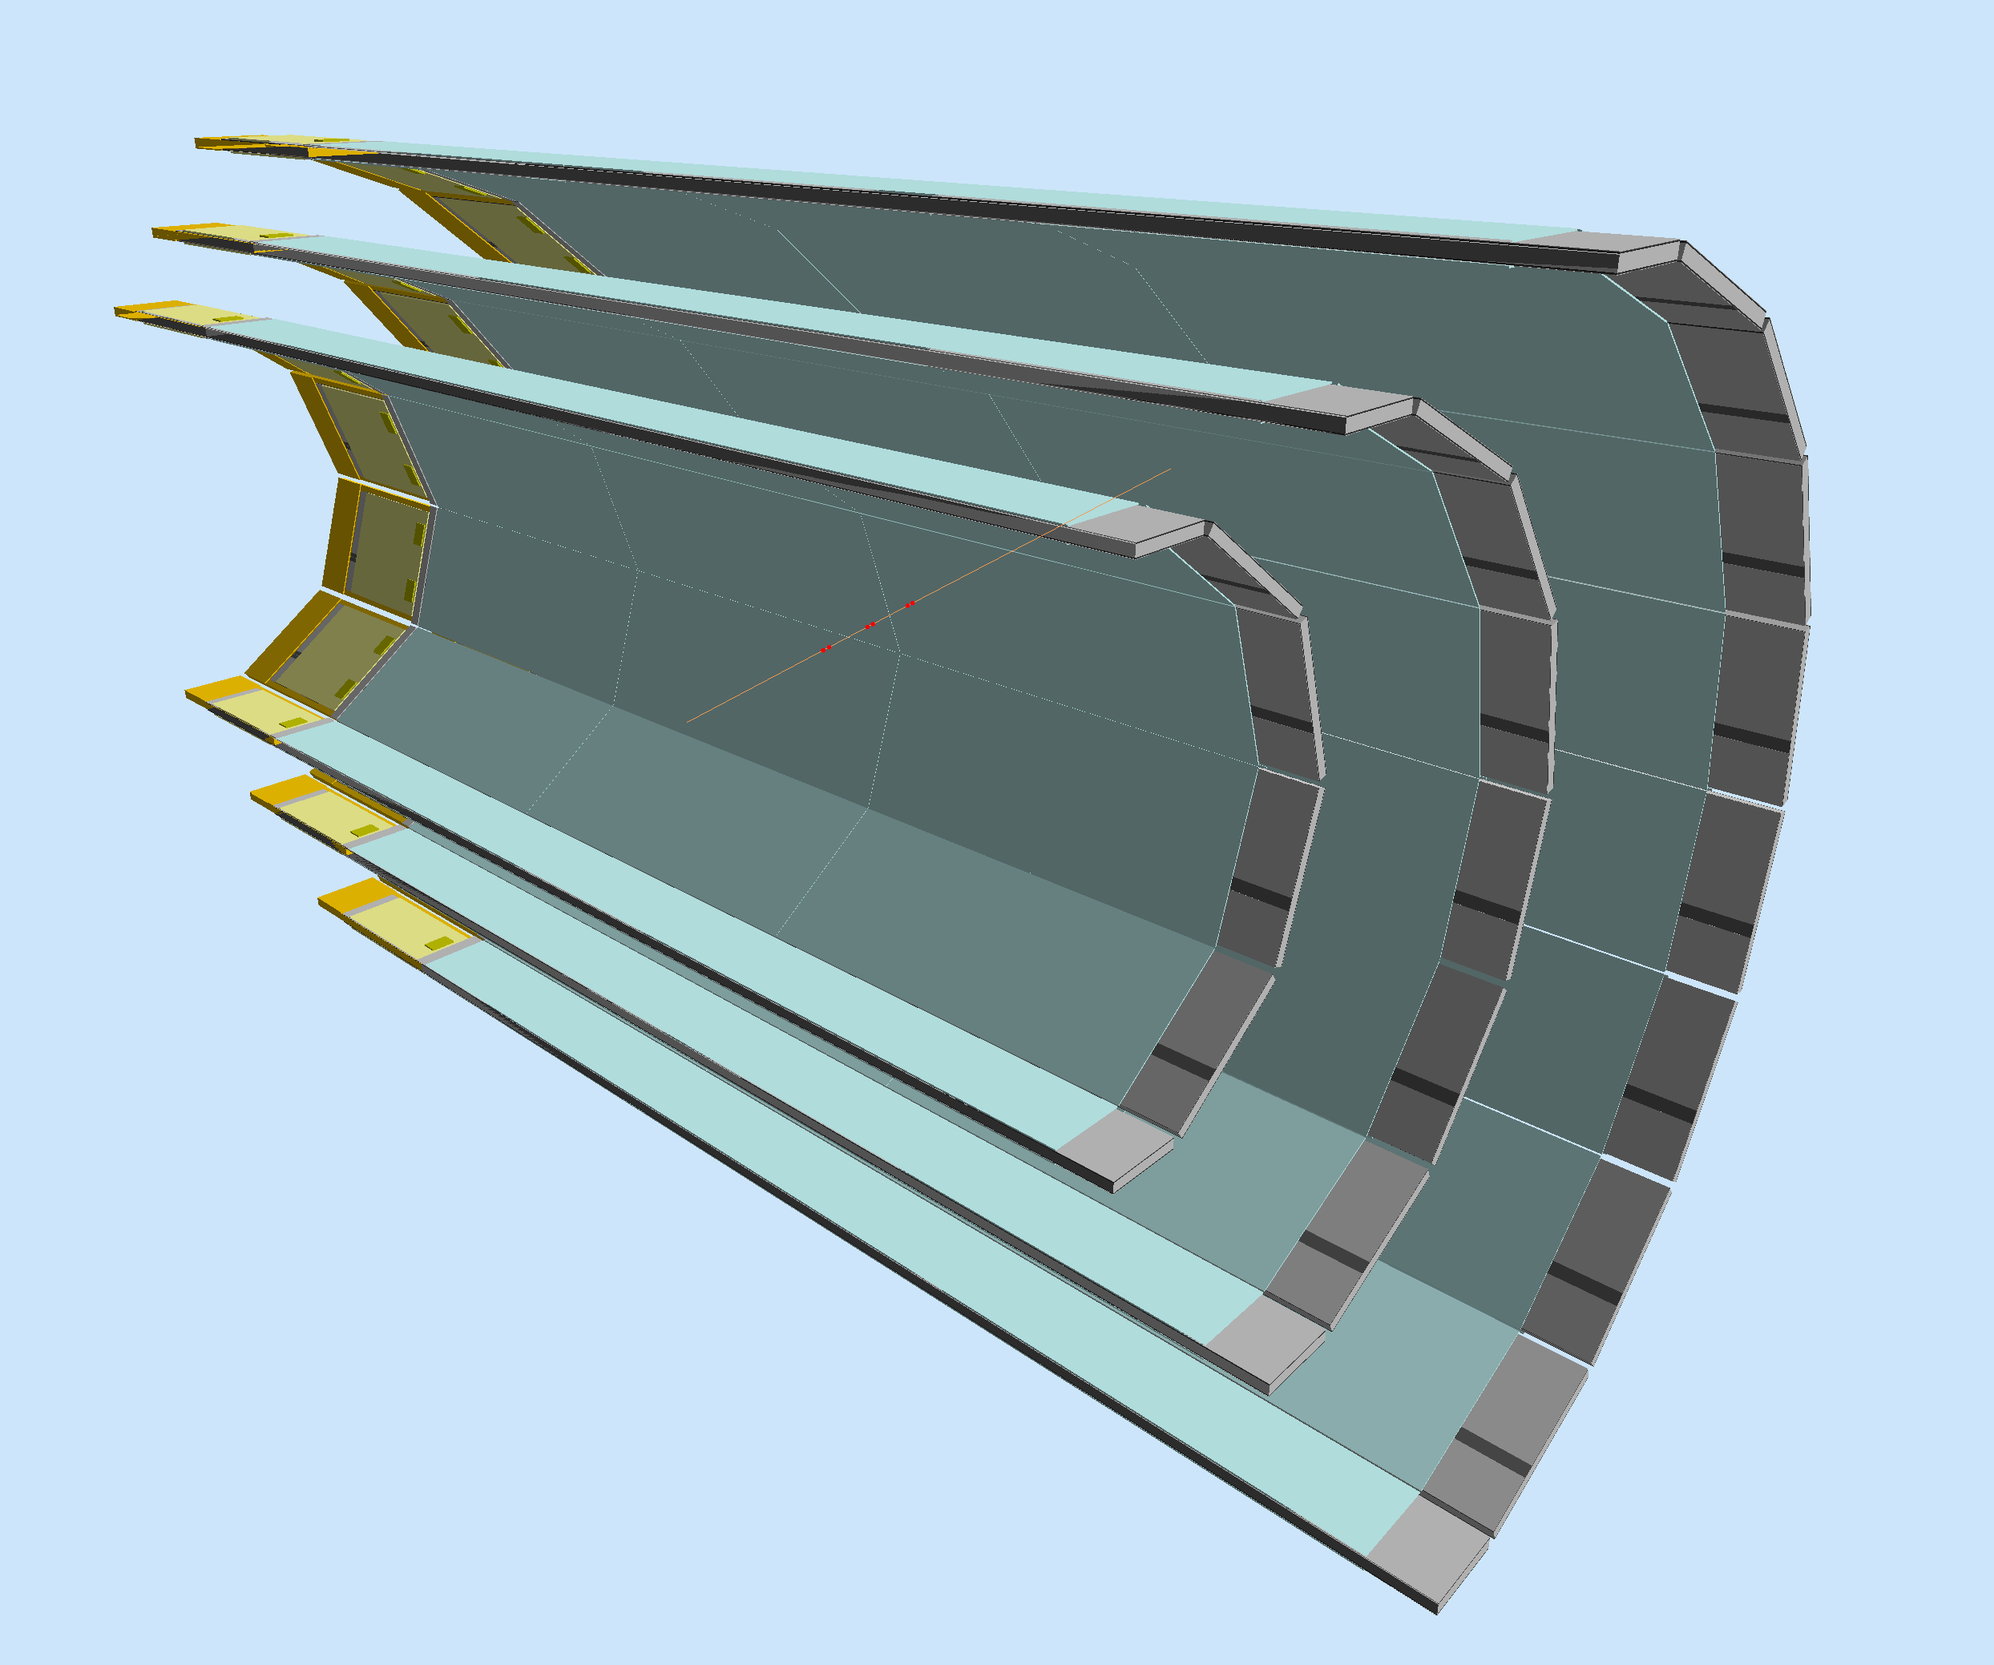
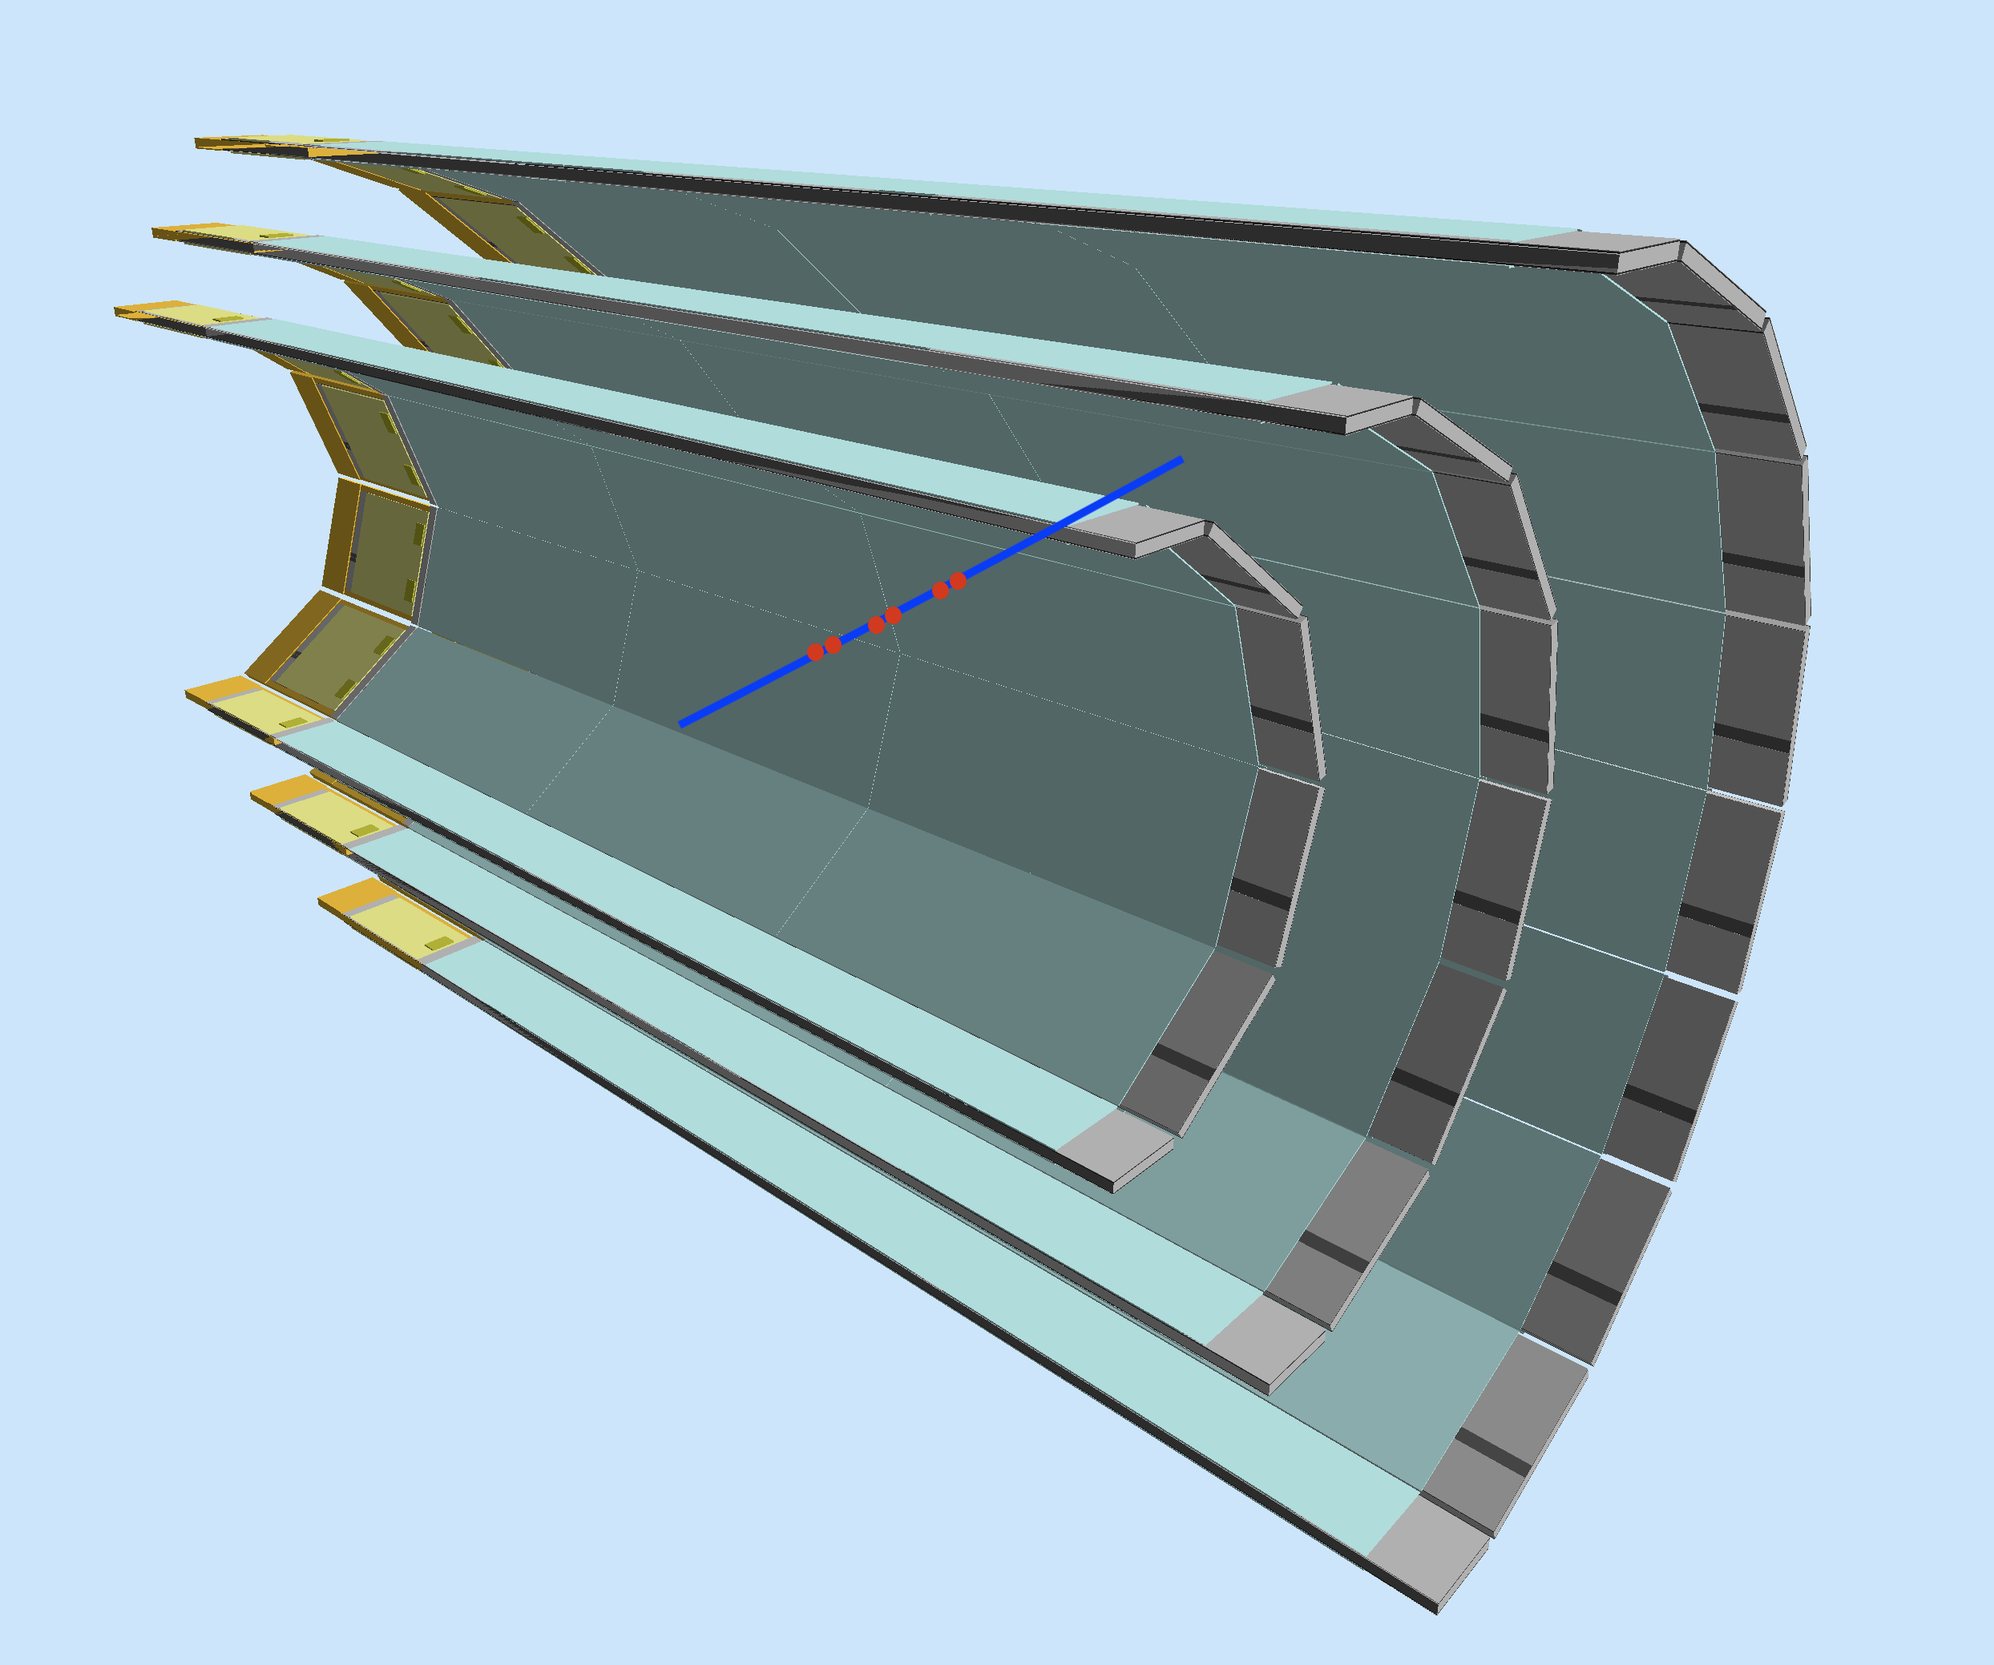
finalized Yuri's suggestions on his part

diff --git a/simulations/bst.tex b/simulations/bst.tex
@@ -7,8 +7,8 @@
 The BST geometry is implemented through the COATJAVA geometry service.
 The service provides the Geant4 definitions that are read by the GEMC perl API to build the geometry database.
 
-There are three BST regions, with 10, 14 and 18 sectors for region 1, 2, and 3 respectively, see \F{bstGeometry}.
-Each sectors contains a module with three sensors, two readout chips, and several layers of material,
+There are three BST regions, with 10, 14, and 18 sectors/modules for region 1, 2, and 3 respectively, see \F{bstGeometry}.
+Each module has six sensors, four readout chips, and several layers of material,
 including (length of line represents depth level):
 
 \begin{itemize}
@@ -27,31 +27,32 @@ including (length of line represents depth level):
 	\item -- wirebond
 \end{itemize}
 
-The sensitive sensor are assigned the silicon material and associated with the BST hit process routine.
+The active area of the slilicon sensor is associated with the BST hit process routine.
 The strip identification is performed in the Process ID routine.
 
 \begin{figure}
 	\centering
 	\includegraphics[width=0.95\columnwidth,keepaspectratio]{img/bstGeometry.png}
 	\includegraphics[width=0.95\columnwidth,keepaspectratio]{img/bstDetail.png}
-	\caption{Top: the GEMC implementation of the BST geometry. The three regions are shown in the sliced view. The silicon sensors are
-           in cyan color. The red track is a 2 GeV proton, leaving hits in each module crossed. Bottom: detail of a module shows
-           the various material inside. The $320 \mu m$ silicon sensor is on top and bottom of the module.
-           The material inside includes epoxy glue, the bus cable and support material. }
+	\caption{Top: the GEMC implementation of the BST geometry. The three regions are shown in the sliced view. The silicon sensors are shown
+           in cyan color. The blue track is a 2 GeV proton, leaving hits in each module crossed. Bottom: detail of a module shows
+           the various material inside. The 320 $\mu$ m silicon sensor is on top and bottom of the module.
+           The material inside includes epoxy glue, the bus cable, and support material. }
 	\label{fig:bstGeometry}
 \end{figure}
 
 
-\subsubsection{Geometry Git Location}
-The Github location of the GEMC perl API script is \url{https://github.com/gemc/detectors/tree/master/clas12/bst}.
-The geometry service definitions in coatjava is \url{https://github.com/JeffersonLab/clas12-offline-software/blob/development/common-tools/clas-jcsg/src/main/java/org/jlab/detector/geant4/v2/SVTGeant4Factory.java}
+\subsubsection{Geometry Location on GitHub}
+The Github location of the GEMC perl API script is at \url{https://github.com/gemc/detectors/tree/master/clas12/bst}.
+The geometry service definitions in coatjava is at
+\url{https://github.com/JeffersonLab/clas12-offline-software/blob/development/common-tools/clas-jcsg/src/main/java/org/jlab/detector/geant4/v2/SVTGeant4Factory.java}
 
 
 \subsection{Process ID}
 
-At each Geant4 step, the local coordinate in the sensor volume are used to calculate the strip id.
-The algorithm includes the dead zone around the sensor, the pitch between the strips ($156 \mu m$) and the angle
-between the strips, that varies from 0 (strip n. 1) and 3 degrees (for strip n. 256). A showcase of the strip id assignment
+At each Geant4 step, the local coordinates in the sensor volume are used to calculate the strip id.
+The algorithm includes: the dead zone around the sensor, the pitch between the strips (156 $\mu$ m) and the angle
+between the strips, that varies from 0 (strip n. 1) to 3 degrees (for strip n. 256). A showcase of the strip id assignment
 is summarized in \F{processID}.
 
 \begin{figure}
@@ -59,10 +60,10 @@ is summarized in \F{processID}.
 	\includegraphics[width=0.95\columnwidth,keepaspectratio]{img/bstHit.png}
 	\includegraphics[width=0.95\columnwidth,keepaspectratio]{img/bstStrip.png}
 	\caption{Top: process ID algorithm cartoon for BST. The strip ID is assigned based on the local position of the track
-            step within the sensitive module. If a step of a primary or a secondary particle happens between the boundary
-            of strip that was already hit, it will be assigned to that strip. Bottom: actual hit position of selected
+            step within the sensitive module. If a step of the primary or the secondary particles happen between the boundary
+            of the strip that was already hit, it will be assigned to that strip. Bottom: actual hit position of selected
             strips in the top and bottom silicon sensors of a module shows the fan-like distribution of the strips,
-            with increasing angle. The top layer angle is the opposite of the bottom layer angle. }
+            with increasing angle. The top layer angle is opposite to the bottom layer angle. }
 	\label{fig:processID}
 \end{figure}
 
@@ -72,9 +73,9 @@ is reproduced in the GEMC simulation using the hit sharing algorithm, see \F{bst
 \begin{figure}[t]
 	\centering
 	\includegraphics[width=0.95\columnwidth,keepaspectratio]{img/bstHitSharing.png}
-	\caption{The BST hit sharing algorithm. If a step in a given strip happens within $39 \mu m$ of another strip, then
+	\caption{The BST hit sharing algorithm. If a step in a given strip happens from within 39 $\mu$ m the adjacent strip, then
             $90\%$ of the energy deposited will be shared equally between them ($45\%$ each), with a $10\%$ energy loss due
-	         to capacitance between strip and backplane.}
+	         to capacitive coupling between the strip and the backplane.}
 	\label{fig:bstHitSharing}
 \end{figure}
 
@@ -113,7 +114,7 @@ The digitized output bank has $ID=100$, and the variables are summarized in Tabl
 
 
 \subsubsection{Time Window}
-The time window  of the BST is set to to 132 ns.
+The time window  of the BST is set to to 128 ns.
 
 \subsubsection{Process Routine Git Repository Location}
 
@@ -123,19 +124,18 @@ The BST hit process routines are located in the repository: \url{https://github.
 A detailed study of the background rates coming from beam interacting with the target was done to ensure that the silicon sensor
 could operate in the high radiation conditions of the target proximity.
 
-Given the nominal operating luminosity $L=10^{35} cm^{-2}s^{-1}$, and the liquid hydrogen target of $5 cm$, the beam electron rates
-is $R=4.7 \times 10^{11} Hz$. This correspond to around 62,000 electrons in the BST 132 ns time window.
+Given the nominal operating luminosity $L=10^{35} cm^{-2}s^{-1}$, and the liquid-Hydrogen target of 5 cm thickness, the beam electron rate
+is $R=4.7 \times 10^{11} Hz$. This corresponds to about 62,000 electrons in the BST 128 ns time window.
 
-Simulations using 62,000 11 GeV electrons per event impinging on the liquid hydrogen target were analyzed.
+Simulations using 62,000 11 GeV electrons per event impinging on the liquid-Hydrogen target were analyzed.
 
-
-The rates were calculated for the various region and for different detector threshold.
-The radiation dose and the neutron equivalent damage was estimated. Most of the radiation
+The rates were calculated for the various regions and for different thresholds.
+The radiation dose and the 1 MeV neutron equivalent damage was estimated. Most of the radiation
 is released in the first two layers of the BST.
 The 370 rad / year are low enough to grant the BST operation for 15 years. The results of the study
-are summarized in \F{radStudy}
+are summarized in \F{radStudy}.
 
-In addition a thin layer of tungsten was added after an analysis aimed at reducing the electromagnetic
+In addition a thin layer of tungsten was added between the target and the inner BST layer aimed at reducing the electromagnetic
 background \cite{bstDose}.
 
 \begin{figure}
@@ -143,9 +143,9 @@ background \cite{bstDose}.
 	\includegraphics[width=0.95\columnwidth,keepaspectratio]{img/bstHitDisplay.png}
 	\includegraphics[width=0.95\columnwidth,keepaspectratio]{img/bstRates.png}
 	\includegraphics[width=0.95\columnwidth,keepaspectratio]{img/bstRadSummary.png}
-	\caption{Summary of radiation doses and background rates on the BST. Top: a display shows the occupancy of the various BST layers
-            for different thresholds. Middle: the rate breakdown for different particles for a threshold of $20 keV$.
-            The current hardware threshold is $30 keV$. Bottom: table showing the fluences and radiation doses in different BST
+	\caption{Summary of radiation doses and background rates in the BST. Top: the occupancy in the various BST layers
+            for different thresholds. Middle: the rate breakdown for different particles for a threshold of 20 keV.
+            The current hardware threshold is 30 keV. Bottom: table showing the fluences and radiation doses in the BST
             layers. }
 	\label{fig:radStudy}
 \end{figure}

diff --git a/simulations/target.tex b/simulations/target.tex
@@ -34,12 +34,12 @@ An overview of the target in Geant4 and the engineering model is shown in \F{tar
 	\includegraphics[width=0.95\columnwidth,keepaspectratio]{img/targetOverview1.png}
 	\includegraphics[width=0.95\columnwidth,keepaspectratio]{img/targetOverview2.png}
 	\caption{Top: overview of the target implementation in GEMC includes the scattering chamber (cyan color), the
-            downstream cup near the right of the figure and 50 micron aluminum window. Bottom: the torlon base
+            downstream cup near the right of the figure and 50 $\mu$m aluminum window. Bottom: the torlon base
             tube starts at a radius of r=6.06 mm, and ends at r = 7.75 mm. It is 63.7 mm long.}
 	\label{fig:targetOverview}
 \end{figure}
 
-\subsubsection{Geometry Git Location}
+\subsubsection{Geometry Location on GitHub}
 The Github location of the GEMC perl API scripts and the STL files is \url{https://github.com/gemc/detectors/tree/master/clas12/targets}.
 
 

diff --git a/simulations/ftof.tex b/simulations/ftof.tex
@@ -17,7 +17,7 @@ Each scintillator is a G4Box embedded in a G4Trapezoid mother volume made of air
 	\label{fig:ftofGeometry}
 \end{figure}
 
-\subsubsection{Geometry Git Location}
+\subsubsection{Geometry Location on GitHub}
 The Github location of the GEMC perl API script is \url{https://github.com/gemc/detectors/tree/master/clas12/ftof}.
 The geometry service definitions in coatjava is \url{https://github.com/JeffersonLab/clas12-offline-software/blob/development/common-tools/clas-jcsg/src/main/java/org/jlab/detector/geant4/v2/FTOFGeant4Factory.java}
 

diff --git a/simulations/dc.tex b/simulations/dc.tex
@@ -20,7 +20,7 @@ The wire identifications is performed in the Process ID routine.
 \end{figure}
 
 
-\subsubsection{Geometry Git Location}
+\subsubsection{Geometry Location on GitHub}
 The Github location of the GEMC perl API script is \url{https://github.com/gemc/detectors/tree/master/clas12/dc}.
 The geometry service definitions in coatjava is \url{https://github.com/JeffersonLab/clas12-offline-software/blob/development/common-tools/clas-jcsg/src/main/java/org/jlab/detector/geant4/v2/DCGeant4Factory.java}.
 

diff --git a/simulations/ctof.tex b/simulations/ctof.tex
@@ -22,7 +22,7 @@ junctions, see \F{ctofGeometry} bottom.
 \end{figure}
 
 
-\subsubsection{Geometry Git Location}
+\subsubsection{Geometry Location on GitHub}
 The Github location of the GEMC perl API script is \url{https://github.com/gemc/detectors/tree/master/clas12/ctof}.
 The coatjava geometry service is \url{https://github.com/JeffersonLab/clas12-offline-software/blob/development/common-tools/clas-jcsg/src/main/java/org/jlab/detector/geant4/v2/CTOFGeant4Factory.java}
 

diff --git a/simulations/ltcc.tex b/simulations/ltcc.tex
@@ -31,7 +31,7 @@ account and taken into account during the Geant4 transportation of the photons.
 The quartz window PMT quantum efficiency are associated with the PMT face optical properties and are taken into account in
 the digitization routine.
 
-\subsubsection{Geometry Git Location}
+\subsubsection{Geometry Location on GitHub}
 The Github location of the GEMC perl API script is  \url{https://github.com/gemc/detectors/tree/master/clas12/ltcc}.
 
 

diff --git a/simulations/ec.tex b/simulations/ec.tex
@@ -33,7 +33,7 @@ Each scintillator is a G4Trap embedded in a G4Trapezoid mother volume made of ai
 
 
 
-\subsubsection{Geometry Git Location}
+\subsubsection{Geometry Location on GitHub}
 The Github location of the GEMC perl API script for EC  is \url{https://github.com/gemc/detectors/tree/master/clas12/ec} and
 for PCAL is \url{https://github.com/gemc/detectors/tree/master/clas12/pcal}
 The coatjava geometry service are

diff --git a/simulations/beamline.tex b/simulations/beamline.tex
@@ -106,6 +106,6 @@ These components are shown in \F{downstreamShielding}.
 
 The beamline geometry is entirely imported from the engineering CAD model.
 
-\subsubsection{Geometry Git Location}
+\subsubsection{Geometry Location on GitHub}
 
 The Github location of the GEMC geometry CAD volumes is \url{https://github.com/gemc/detectors/tree/master/clas12/cadBeamline}.

diff --git a/simulations/magnets.tex b/simulations/magnets.tex
@@ -108,6 +108,6 @@ Table \ref{tab:torMap} shows the field map ascii data structure.
 \end{table}
 
 
-\subsubsection{Geometry Git Location}
+\subsubsection{Geometry Location on GitHub}
 The Github location of the GEMC perl API script for the solenoid and the torus CAD volumes is \url{https://github.com/gemc/detectors/tree/master/clas12/magnets}.
 

diff --git a/simulations/cnd.tex b/simulations/cnd.tex
@@ -16,7 +16,7 @@ The paddles are assigned the scintillator material and associated with the CND h
 \end{figure}
 
 
-\subsubsection{Geometry Git Location}
+\subsubsection{Geometry Location on GitHub}
 The Github location of the GEMC perl API script is \url{https://github.com/gemc/detectors/tree/master/clas12/cnd}.
 
 

diff --git a/simulations/micromegas.tex b/simulations/micromegas.tex
@@ -32,7 +32,7 @@ The strip identification is performed in the Process ID routine.
 
 
 
-\subsubsection{Geometry Git Location}
+\subsubsection{Geometry Location on GitHub}
 The Github location of the GEMC perl API script is \url{https://github.com/gemc/detectors/tree/master/clas12/micromegas}.
 
 

diff --git a/simulations/ft.tex b/simulations/ft.tex
@@ -27,7 +27,7 @@ The FT geometry is shown in \F{ftGeometry}.
 
 
 
-\subsubsection{Geometry Git Location}
+\subsubsection{Geometry Location on GitHub}
 The Github location of the GEMC perl API script is \url{https://github.com/gemc/detectors/tree/master/clas12/ft}.
 
 
